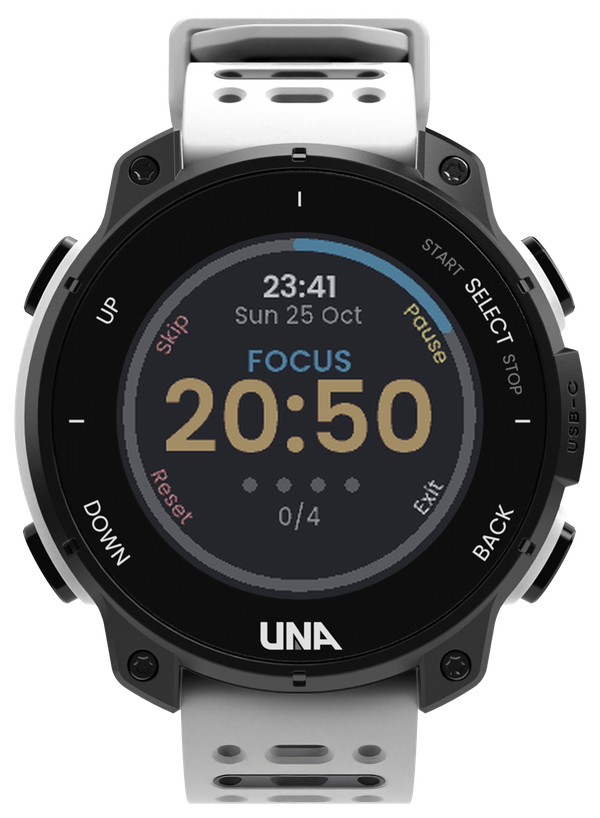
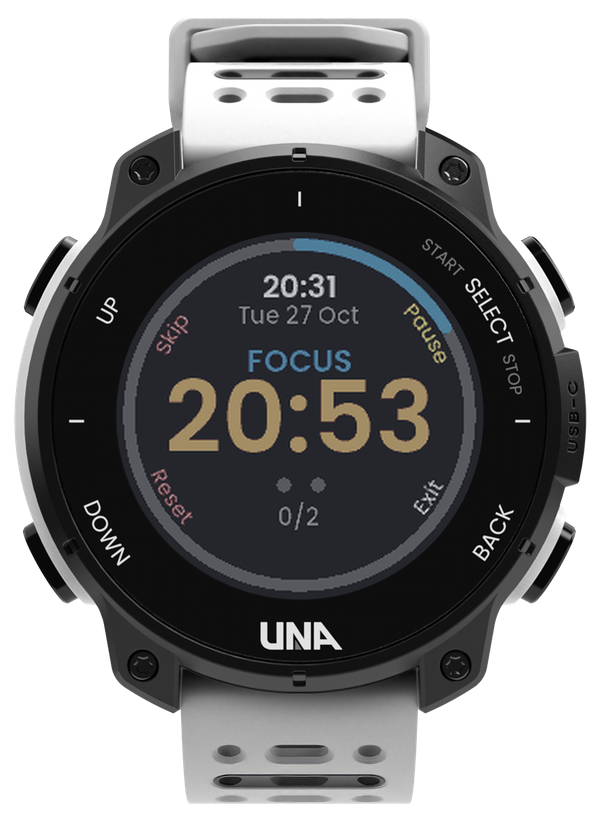
PomoTimer 0.5.0 page; Feedback first; links for the una-apps rename
- PomoTimer: page and mockups for 0.5.0 (sessions per set, buzz choice,
  tap/hold focus steps).
- README: Feedback at the top; AutoRep row links the workout builder.
- AutoRep README: Feedback section, builder under "Coming next".
- AGENTS.md: the repo is una-apps; PomoTimer row; feedback hub rules
  (FEEDBACK paragraph last in store descriptions).

diff --git a/PomoTimer/README.md b/PomoTimer/README.md
@@ -5,8 +5,8 @@
 **Your wrist keeps time, so you can keep focus.**
 
 A focus timer for the [UNA Watch](https://unawatch.com), built on the Pomodoro technique: focus in
-timed sessions, take short breaks, and get a longer break every four sessions, without reaching for
-your phone.
+timed sessions, take short breaks, and get a longer break after every set of sessions, without
+reaching for your phone.
 
 <img src="images/hero_3_watches.png" alt="PomoTimer on three UNA watches: the start screen, a focus session, a break" width="800">
 
@@ -30,30 +30,31 @@ when it's time to get back to work, so you never have to check.
 
 - **Starts in one press.** PomoTimer opens on START with your last focus and break lengths, so R1
   gets you going straight away.
-- **Tells you without looking.** The watch vibrates and lights up when focus ends and a break
-  starts, and the other way round.
+- **Tells you without looking.** The watch vibrates and lights up when a phase ends: a buzz that
+  builds up when focus is over, a double tap when the break is.
 - **Never loses your session.** The timer keeps running after you leave the app. Open it again and
   you are back on the countdown.
 - **At a glance:** a ring fills as the phase runs, blue for focus and green for breaks. Dots show
-  where you are in the set of four. The time of day and the date show on the timer screen.
+  where you are in the set. The time of day and the date show on the timer screen.
 - **Hard to tap by accident.** Skip and Reset need a hold, and when the screen is dark the first
   press only wakes it.
-- **Adjustable:** focus from 5 to 60 minutes, breaks from 1 to 30. The long break is three times the
-  short one (15 minutes by default).
+- **Adjustable:** focus from 5 to 60 minutes (tap for 5-minute steps, hold to count by 1), breaks
+  from 1 to 30. A set is 1 to 4 focus sessions (2 by default), then a long break three times the
+  short one. The focus-end buzz can be rising, long or soft.
 
 ## Screens
 
 | Start | Focus length | Focus |
 |:---:|:---:|:---:|
 | <img src="images/1_start.png" width="220"> | <img src="images/2_focus_length.png" width="220"> | <img src="images/3_focus.png" width="220"> |
-| Last time's lengths: R1 starts | Focus 5 to 60 min, break 1 to 30 | The ring fills, the dots count the set |
+| Last time's settings: R1 starts | Tap for 5 min, hold for 1 | The ring fills, the dots count the set |
 
 | Break | Paused | Hold to skip |
 |:---:|:---:|:---:|
 | <img src="images/4_break.png" width="220"> | <img src="images/5_paused.png" width="220"> | <img src="images/6_hold_to_skip.png" width="220"> |
-| Green for breaks; a long one every 4 | The countdown turns grey | A tap only says "Hold" |
+| Green for breaks; a long one after each set | The countdown turns grey | A tap only says "Hold" |
 
-**Buttons:** on the start screen, L1 / L2 = up / down, R1 = start (or edit a length, then Done),
+**Buttons:** on the start screen, L1 / L2 = up / down, R1 = start (or edit a setting, then Done),
 R2 = exit. On the timer, R1 = pause / resume, hold L1 = skip to the next phase, hold L2 = reset,
 R2 = exit (the timer keeps running). The app opens with a short "by RF" mark; any button skips it.
 
@@ -61,7 +62,7 @@ R2 = exit (the timer keeps running). The app opens with a short "by RF" mark; an
 
 The timer runs in the app's background service, not on the screen, so it keeps counting when you
 leave the app and buzzes at the end of each phase even when the screen is off. The screen only
-shows the service's countdown. Your focus and break lengths are saved on the watch for next time.
+shows the service's countdown. Your settings are saved on the watch for next time.
 
 ## Coming next
 
@@ -70,7 +71,7 @@ shows the service's countdown. Your focus and break lengths are saved on the wat
 
 ## Feedback
 
-Found a bug, or have an idea? [Open an issue](https://github.com/ROunofF/una-apps-submissions/issues/new/choose)
+Found a bug, or have an idea? [Open an issue](https://github.com/ROunofF/una-apps/issues/new/choose)
 and pick **PomoTimer** in the form.
 
 ---

diff --git a/README.md b/README.md
@@ -5,22 +5,24 @@ next, and the place to report a bug or send an idea. They are also my entries fo
 [UNA's first app competition](https://dev.unawatch.com/t/announcing-unas-first-app-competition-october-2026/113)
 (October 2026).
 
-| App | What it does |
-|---|---|
-| [**AutoRep by RF**](AutoRep/) | A Sets / EMOM / AMRAP / Tabata timer that counts your reps automatically from wrist motion (baseline set on your first 3 reps), with heart rate and tempo. |
-| [**PomoTimer by RF**](PomoTimer/) | A Pomodoro focus timer: timed focus sessions and breaks, a buzz at every change, a long break every four sessions, and it keeps running when you leave the app. |
-
-<a href="AutoRep/"><img src="AutoRep/images/hero_3_watches.png" alt="AutoRep on three UNA watches" width="600"></a>
-
-<a href="PomoTimer/"><img src="PomoTimer/images/hero_3_watches.png" alt="PomoTimer on three UNA watches" width="600"></a>
-
 ## Feedback
 
 Using one of my apps? I'd like to hear from you. Each form asks which app it's about.
 
-- [**Report a bug**](https://github.com/ROunofF/una-apps-submissions/issues/new?template=1-bug.yml): something doesn't work the way it should.
-- [**Suggest an idea**](https://github.com/ROunofF/una-apps-submissions/issues/new?template=2-idea.yml): something you'd like an app to do, or a new app.
-- [**Send feedback or ask a question**](https://github.com/ROunofF/una-apps-submissions/issues/new?template=3-feedback.yml): what works for you, what's confusing.
+- [**Report a bug**](https://github.com/ROunofF/una-apps/issues/new?template=1-bug.yml): something doesn't work the way it should.
+- [**Suggest an idea**](https://github.com/ROunofF/una-apps/issues/new?template=2-idea.yml): something you'd like an app to do, or a new app.
+- [**Send feedback or ask a question**](https://github.com/ROunofF/una-apps/issues/new?template=3-feedback.yml): what works for you, what's confusing.
 
-You need a free GitHub account to post. [Open issues](https://github.com/ROunofF/una-apps-submissions/issues)
+You need a free GitHub account to post. [Open issues](https://github.com/ROunofF/una-apps/issues)
 show what's already reported, so check there first and add a 👍 to the ones you also want.
+
+## Apps
+
+| App | What it does |
+|---|---|
+| [**AutoRep by RF**](AutoRep/) | A Sets / EMOM / AMRAP / Tabata timer that counts your reps automatically from wrist motion (baseline set on your first 3 reps), with heart rate and tempo. Coming in 1.1: plan workouts on your phone with the [**workout builder**](https://rounoff.github.io/una-apps/AutoRep/builder/). |
+| [**PomoTimer by RF**](PomoTimer/) | A Pomodoro focus timer: timed focus sessions and breaks, a buzz at every change, a long break after each set, and it keeps running when you leave the app. |
+
+<a href="AutoRep/"><img src="AutoRep/images/hero_3_watches.png" alt="AutoRep on three UNA watches" width="600"></a>
+
+<a href="PomoTimer/"><img src="PomoTimer/images/hero_3_watches.png" alt="PomoTimer on three UNA watches" width="600"></a>

diff --git a/AGENTS.md b/AGENTS.md
@@ -1,8 +1,8 @@
-# una-apps-submissions: guide for adding an app
+# una-apps: guide for adding an app
 
 Public showcase of RF's entries in UNA's first app competition
 (https://dev.unawatch.com/t/announcing-unas-first-app-competition-october-2026/113).
-GitHub: https://github.com/ROunofF/una-apps-submissions (branch `main`).
+GitHub: https://github.com/ROunofF/una-apps (branch `main`; renamed from una-apps-submissions on 2026-10-27, the old address redirects). The local folder is still `~/STM32Cube/una-apps-submissions`.
 
 **Deadline:** 2026-10-30, 4 pm UK = 12:00 noon Toronto. Each entry needs the app on the UNA
 community store (an unpublished draft counts) plus the Google Form
@@ -70,11 +70,11 @@ This repo is where users reach RF about any of the apps: GitHub issues with thre
 - **New app:** add it to the "Which app?" dropdown in all three forms.
 - **Every app page** ends with a "Feedback" section linking to `issues/new/choose`.
 - **Every store description** (`app-manifest.json` in the app's project) ends with this
-  paragraph, just before the "<App> by RF." signature line:
+  paragraph, as its last lines (no "<App> by RF." line after it: the store already shows the app name, so it read twice):
 
   ```
   FEEDBACK
-  Found a bug or have an idea? Tell me at https://github.com/ROunofF/una-apps-submissions (pick <App> in the form). My other apps are there too.
+  Found a bug or have an idea? Tell me at https://github.com/ROunofF/una-apps/issues/new/choose (pick <App> in the form). My other apps are there too.
   ```
 
   It reaches the store with the app's next upload.

diff --git a/AutoRep/README.md b/AutoRep/README.md
@@ -101,6 +101,9 @@ the buzzes and the phone-app activity work. The other exercises are tuned on the
 
 ## Coming next
 
+- **Saved workouts (1.1):** build up to five workouts on your phone with the
+  [**workout builder**](https://rounoff.github.io/una-apps/AutoRep/builder/), copy each one into
+  AutoRep's settings in the UNA app, and start them from the top of the watch's mode list.
 - **Workout plans, set from the watch:** chain several blocks into one workout (for example EMOM
   5 min of squats, rest 60 s, Tabata jumping jacks, rest 60 s, AMRAP 5 min of curls), each with its
   own format, exercise, target and rest. Built on the watch with the same lists, run as one
@@ -108,7 +111,7 @@ the buzzes and the phone-app activity work. The other exercises are tuned on the
 
 ## Feedback
 
-Found a bug, or have an idea? [Open an issue](https://github.com/ROunofF/una-apps-submissions/issues/new/choose)
+Found a bug, or have an idea? [Open an issue](https://github.com/ROunofF/una-apps/issues/new/choose)
 and pick **AutoRep** in the form.
 
 ---
